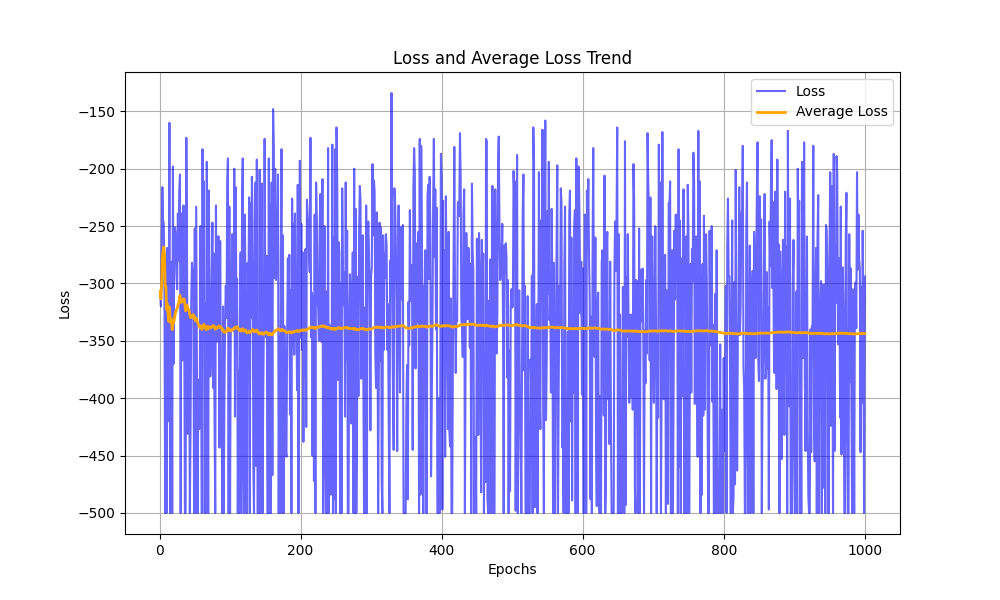
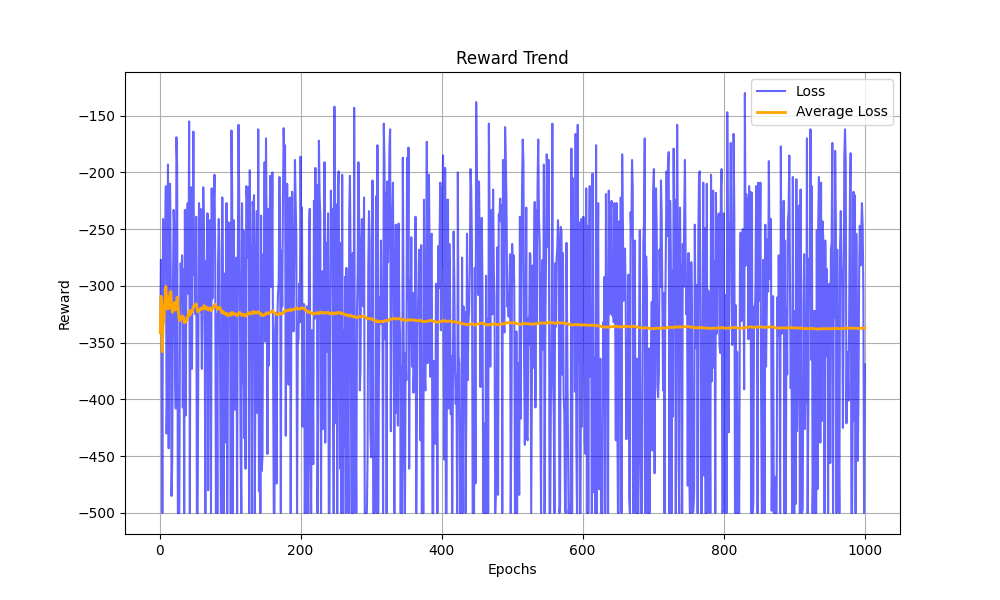
Fix label of graph

diff --git a/src/main.py b/src/main.py
@@ -10,7 +10,7 @@ print(f"Using device: {device}")
 
 state_dim = 6  
 action_dim = 3  
-policy_path = "../models/Original_loss_policy_model.pth"
+policy_path = "../models/Huber_policy_model.pth"
 
 policy_model = PolicyModel(input_dim=state_dim, action_dim=action_dim).to(device)
 policy_model.load_state_dict(torch.load(policy_path, map_location=device))
@@ -50,9 +50,9 @@ def plot_loss_with_average(loss_values):
     plt.plot(epoch_numbers, loss_values, label='Loss', color='blue', alpha=0.6)
     plt.plot(epoch_numbers, cumulative_average, label='Average Loss', color='orange', linewidth=2)
     
-    plt.title('Loss and Average Loss Trend')
+    plt.title('Reward Trend')
     plt.xlabel('Epochs')
-    plt.ylabel('Loss')
+    plt.ylabel('Reward')
     plt.legend()
     plt.grid(True)
     plt.show()
@@ -62,7 +62,7 @@ if __name__ == "__main__":
     parser.add_argument('--render', action='store_true')
     args = parser.parse_args()
 
-    num_episodes = 1
+    num_episodes = 1000
 
     if args.render:
         env = gym.make('Acrobot-v1', render_mode='human')
@@ -76,7 +76,7 @@ if __name__ == "__main__":
         rewards.append(total_reward)
         print(f"Episode {episode + 1}/{num_episodes}: Total Reward = {total_reward:.2f}")
     
-    #plot_loss_with_average(rewards)
+    plot_loss_with_average(rewards)
     
     env.close()
     print(f"Average Reward over {num_episodes} episodes: {sum(rewards) / num_episodes:.2f}")
